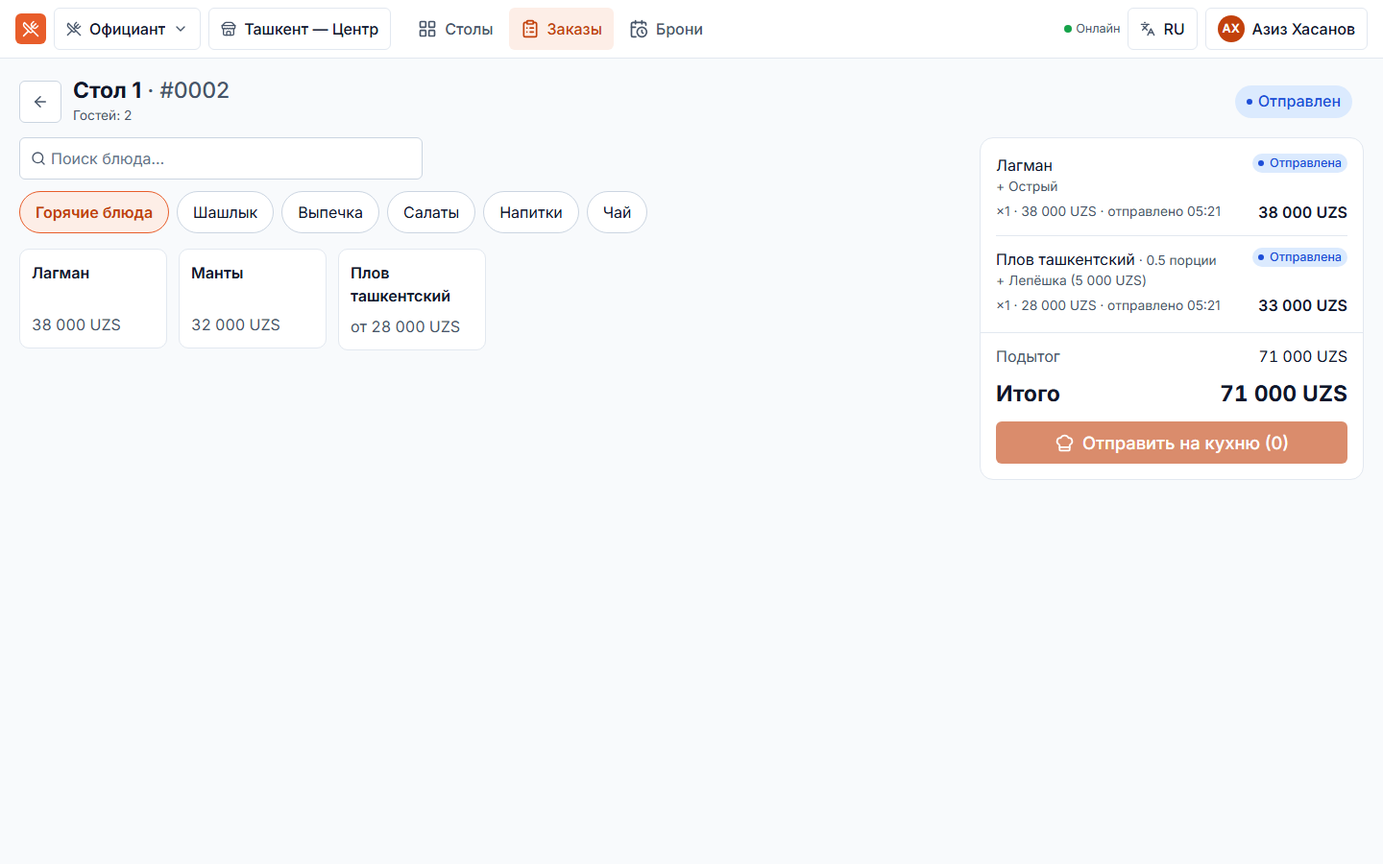
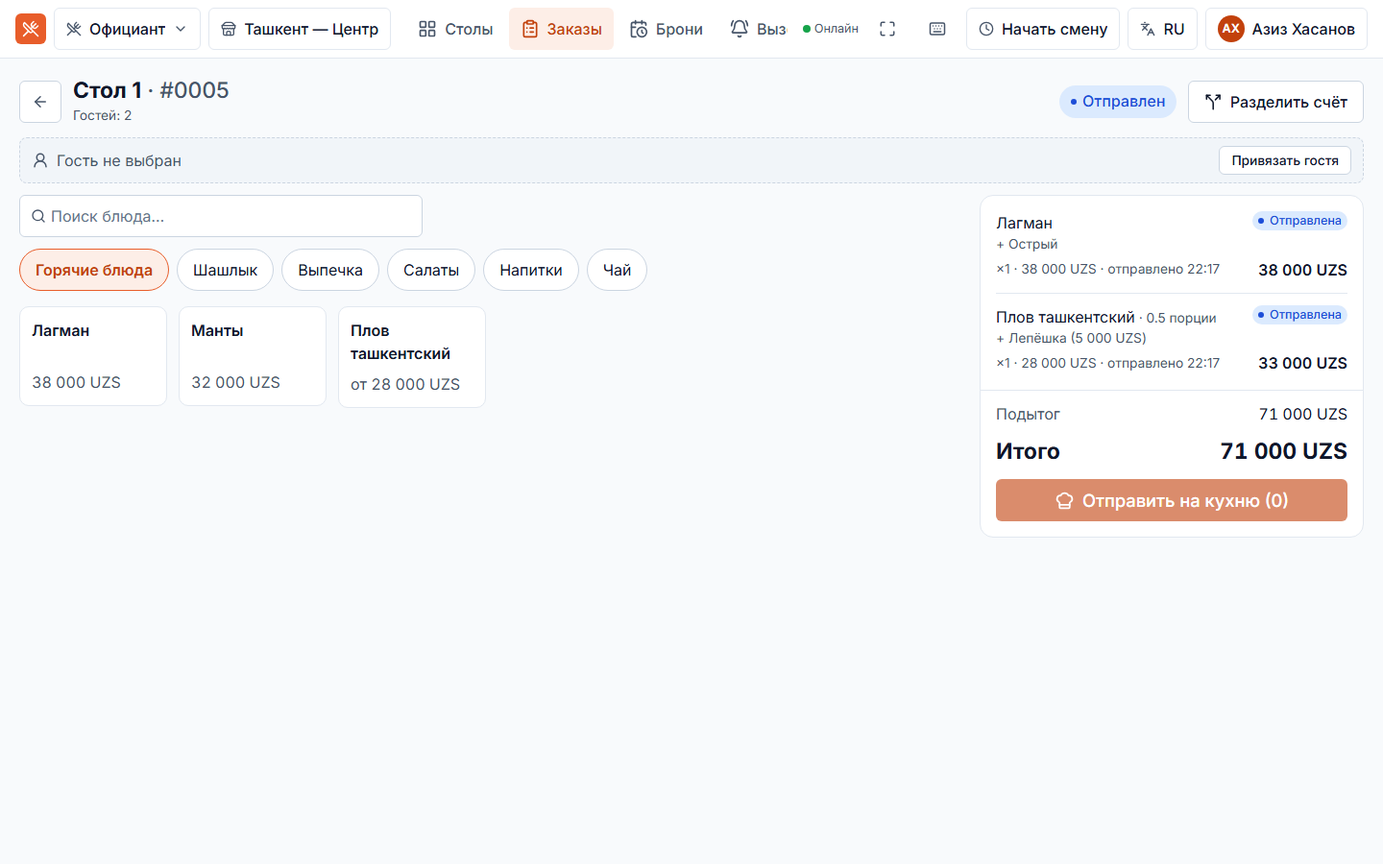
docs: v2 verification results, feature status, owner to-do, deployment notes
- E2E_RESULTS: v2 scenario (11 steps), UI smoke 50-v2 + 59-screen crawl, perf rows,
  final v2 regression (backend 252 + 201, admin 314, landing 35, E2E 29/29,
  UI smoke 32/32) and the problems found while integrating.
- README: feature status table for MVP + v2 (honest about Payme/Click/Telegram/
  Eskiz/SMTP not connected, Uzum skeleton, no fiscalization), demo logins with
  workspaces and Development demo PINs, current test counts.
- STATUS: pause block replaced with the final v2 results and next steps.
- User-Todo: section E (credentials, loyalty defaults, role rights, prod upgrade).
- DEPLOYMENT §11 + .env.example: v2 settings; HANDOFF: v2 summary.
- Screenshots refreshed, 12 v2 screenshots added.

diff --git a/User-Todo.md b/User-Todo.md
@@ -5,11 +5,11 @@
 
 ## A. Бизнес-правила (раздел 20 ТЗ)
 
-- [ ] **Q1. Типы заказов.** Допущение: `dine_in` + базовый `takeaway`. Доставка — нет.
+- [ ] **Q1. Типы заказов.** Допущение: `dine_in` + базовый `takeaway`. Доставка — нет. *(v2: доставка реализована — см. E/V10.)*
 - [ ] **Q2. Несколько филиалов в пилоте?** Допущение: архитектура multi-branch, в пилоте 1 филиал.
 - [ ] **Q3. Бронирования в MVP?** Допущение: да, базовые (с проверкой пересечений).
 - [ ] **Q4. Способы оплаты.** Допущение: `cash`, `card` (ручная отметка), `other`. Payme/Click/Uzum — не подключены.
-- [ ] **Q5. Местные платёжные провайдеры** (Payme, Click, Uzum, Humo/Uzcard-эквайринг)? Нужны договор и доступ к тестовой среде. Сейчас — `ManualPaymentProvider` с пометкой «Демо».
+- [ ] **Q5. Местные платёжные провайдеры** (Payme, Click, Uzum, Humo/Uzcard-эквайринг)? Нужны договор и доступ к тестовой среде. Сейчас — `ManualPaymentProvider` с пометкой «Демо». *(v2: адаптеры Payme/Click написаны, ждут реквизитов — см. E/V1–V3.)*
 - [ ] **Q6. Онлайн-ККМ / фискализация** (soliq.uz, виртуальная касса)? Сейчас пречек с пометкой «Не является фискальным чеком». Нужна консультация местного специалиста.
 - [ ] **Q7. Когда списывать ингредиенты?** Допущение: **при полной оплате заказа** (одно событие, идемпотентно).
 - [ ] **Q8. Отрицательные остатки.** Допущение: ручные операции не могут увести остаток в минус (настройка филиала `AllowNegativeStock=false`). Автосписание при продаже **может** увести в минус (продажа уже состоялась) — создаётся уведомление и запись аудита. Подходит?
@@ -17,7 +17,7 @@
 - [ ] **Q10. Офлайн-режим?** Допущение: нет (ТЗ исключает).
 - [ ] **Q11. RU и UZ с первого релиза?** Допущение: да, оба (узбекский — латиница). Тексты UZ сделаны машинно/черново — **нужна вычитка носителем**.
 - [ ] **Q12. Налог, сервисный сбор, скидки.** Допущение: настройки филиала `serviceChargePercent` (по умолчанию 0%) и `taxPercent` (0%, начисляется сверху). Скидка на заказ — сумма или процент, только с правом `orders.discount.apply` и причиной. Нужно уточнить: НДС уже входит в цены меню? Сервисный сбор 10–15%?
-- [ ] **Q13. Разделение счёта / частичная оплата.** Допущение: частичная оплата есть (несколько платежей разными способами), разделение счёта по позициям — после MVP.
+- [ ] **Q13. Разделение счёта / частичная оплата.** Допущение: частичная оплата есть (несколько платежей разными способами), разделение счёта по позициям — после MVP. *(v2: разделение счёта реализовано — поровну, по позициям, по суммам.)*
 - [ ] **Q14. Ожидаемая нагрузка** (пользователей, заказов в день)? Допущение: до 30 сотрудников, до 500 заказов/день на филиал.
 
 ## B. Технические решения (можно оставить как есть)
@@ -27,7 +27,7 @@
 - [ ] **T3. Хостинг backend + PostgreSQL** (раздел 11): нужно выбрать платформу (Render / Railway / Fly.io / Azure / VPS в UZ) и зарегистрировать аккаунты — это можете сделать только вы. Для реального ресторана рекомендую платный VPS/managed Postgres с бэкапами.
 - [x] **T4. Vercel** — РАЗВЁРНУТО 10.11.2026: https://respos-landing.vercel.app и https://respos-admin.vercel.app (CLI). Для автодеплоя при push установите Vercel GitHub App на репозиторий и подключите проекты (Settings → Git). После хостинга backend задайте в Vercel `VITE_API_BASE_URL`, `VITE_HUB_URL` (admin) и `VITE_API_BASE_URL` (landing) и сделайте redeploy. для `respos-admin` и `respos-landing`: нужен ваш аккаунт и подключение GitHub-репозитория. Конфиги (`vercel.json`) подготовлены.
 - [x] **T5. GitHub-репозиторий.** — https://github.com/Urgenchbayev-Alibek/respos (public). Локально создан git-репозиторий (без push). Создайте пустой репозиторий на GitHub и пришлите URL — тогда заработает CI (`.github/workflows`).
-- [ ] **T6. Email (восстановление пароля, приглашения).** Сейчас заглушка (письмо пишется в лог, в Development — ссылка показывается админу). Какой SMTP/провайдер использовать?
+- [ ] **T6. Email (восстановление пароля, приглашения).** Сейчас заглушка (письмо пишется в лог, в Development — ссылка показывается админу). Какой SMTP/провайдер использовать? *(v2: SMTP настраивается в «Интеграциях» — см. E/V7.)*
 - [ ] **T7. Название продукта и домен.** Рабочее «RestaurantOS», папка «ResPOS». Финальное название и домен?
 - [ ] **T8. Мобильное приложение / Telegram-бот.** По ТЗ в MVP не входят (адаптивный веб). Нужны позже?
 - [ ] **T9. Claude Design.** Отдельный дизайн-артефакт «RestaurantOS — Product Design» сделан в виде документов в `docs/design/`. Если хотите макеты в Claude Design — откройте его и попросите сгенерировать по `docs/design/DESIGN_BRIEF.md`.
@@ -41,7 +41,38 @@
 
 - [ ] **L1.** Блокировка пользователя глобальная: если сотрудник работает в двух организациях, блокировка в одной блокирует и в другой. Для пилота (1 организация) не важно.
 - [x] **L2.** (решено: grace-окно 15 с, ADR-0003) Одновременное обновление сессии в двух вкладках браузера может сработать как «повторное использование refresh-токена» → потребуется войти заново. Можно смягчить grace-периодом 10–30 с.
-- [ ] **L3.** Станция кухни и стоп-лист блюда — на уровне организации, а не филиала (нормально для 1 филиала, Q2).
+- [ ] **L3.** Станция кухни и стоп-лист блюда — на уровне организации, а не филиала (нормально для 1 филиала, Q2). *(v2: решено — переопределения цены, стоп-листа и станции по филиалам, F4.)*
 - [ ] **L4.** Вне Development миграции БД применяются отдельной командой до старта API (см. `docs/deployment/DEPLOYMENT.md`).
 - [x] **L5. Диск C: был заполнен (0 МБ).** РЕШЕНО 10.11.2026: очищены кэши (Gradle, npm, pip, Windows Update, старые IntelliJ, .cache, снапшоты эмуляторов) — свободно ~66 ГБ. Во время работы я очистил кэш npm (`npm cache clean --force`, 6 ГБ — это только кэш загрузок, восстанавливается сам). Освободите место на C: (Docker Desktop ~5 ГБ, Temp ~1.5 ГБ) — иначе npm/Docker/Testcontainers будут падать с ENOSPC.
 - [ ] **L6. Docker после нехватки места.** Из-за заполненного C: в Docker повредился слой базового образа `mcr.microsoft.com/dotnet/aspnet:8.0` (нулевые DLL). Я удалил этот образ и build cache (всё перекачивается автоматически) — после этого образ API собирается и запускается (`docker compose --profile full up`, проверены health/login). Если увидите `Invalid framework config.json` — повторите: `docker builder prune -af && docker rmi mcr.microsoft.com/dotnet/aspnet:8.0`.
+
+## E. v2 (10.11.2026) — что нужно от владельца
+
+Код v2 (F1–F8) слит и проверен на тестовых/демо-данных. Внешние сервисы **не подключены**: в интерфейсе они честно
+показаны как «Не подключено». Чтобы включить их, нужны ваши договоры и реквизиты (в репозиторий и в `VITE_*` их не кладём).
+
+- [ ] **V1. Payme.** Договор мерчанта и доступ в кабинет. Передать на сервер (env): `PaymentProviders__Payme__MerchantId`,
+  `PaymentProviders__Payme__Key`, для песочницы `PaymentProviders__Payme__TestMode=true`. В кабинете Payme указать URL
+  `https://<api-домен>/api/v1/payments/providers/payme/callback`. После этого провайдер включается по филиалам в «Настройки → Платёжные провайдеры».
+  Адаптер написан по публичному Merchant API и покрыт тестами на подписи/идемпотентность, но **с реальной песочницей Payme не проверялся**.
+- [ ] **V2. Click.** Договор и реквизиты: `PaymentProviders__Click__ServiceId`, `__MerchantId`, `__SecretKey` (+ `__TestMode`). URL для Prepare/Complete:
+  `https://<api-домен>/api/v1/payments/providers/click/callback`. Так же: **с реальным Click не проверялся**.
+- [ ] **V3. Uzum.** Только заготовка (всегда «Не подключено»): нужна официальная документация мерчант-API Uzum и тестовый доступ — тогда адаптер можно дописать.
+- [ ] **V4. Фискализация (онлайн-ККМ).** Не подключена (`IFiscalProvider` → `none`), пречек не является фискальным чеком. См. Q6: нужен выбор оператора и консультация.
+- [ ] **V5. Telegram-уведомления владельцу.** Создать бота у @BotFather, прислать токен и chat id (личный или группы) — вводятся в «Интеграции → Telegram-бот»
+  (хранятся зашифрованно, наружу отдаются только в виде `****1234`). Проверка — кнопка «Отправить тест».
+- [ ] **V6. SMS (Eskiz.uz).** Договор с Eskiz: email, пароль, согласованное имя отправителя и шаблоны SMS → «Интеграции → SMS». Без этого подтверждения броней по SMS не уходят.
+- [ ] **V7. Почта (SMTP).** Хост, порт, логин/пароль, адрес отправителя → «Интеграции → Почта» (для организации) и/или `Integrations__Smtp__*` на сервере
+  (приглашения и сброс пароля для всей платформы). Пока не задано — письма пишутся в лог (как в MVP, T6).
+- [ ] **V8. Программа лояльности — проверить значения по умолчанию.** Сейчас: выключена; начисление 5 % от итога оплаченного заказа; бонусами можно
+  оплатить до 30 % счёта; минимальная сумма заказа 0; срок жизни бонусов — бессрочно; 1 бонус = 1 сум. Решить: (а) эти проценты; (б) начислять ли бонусы
+  на сервисный сбор и стоимость доставки (сейчас база начисления — весь итог заказа); (в) кто может менять программу — сейчас только владелец/администратор (`settings.manage`).
+- [ ] **V9. Права ролей v2.** Официант и кассир могут создавать гостей и списывать бонусы; кассир ведёт доставку; менеджер — график, табель и PIN. Проверьте, что это подходит (см. `respos-contracts/v2/`).
+- [ ] **V10. Доставка.** Стоимость доставки задаётся одной суммой на филиал («Филиал → QR-меню и доставка»). Нужны ли зоны/расчёт по расстоянию и приём онлайн-заказов с сайта?
+- [ ] **V11. Онлайн-бронирование.** Часы приёма броней одни для всех филиалов (10:00–22:00, шаг 30 мин, стол на 120 мин) — подтвердить или прислать свои.
+  Лендинг берёт филиал из `VITE_PUBLIC_BRANCH_SLUG` (по умолчанию `demo`) — **при следующем деплое лендинга на Vercel задайте эту переменную** (старая `VITE_PUBLIC_BRANCH_ID` больше не используется).
+- [ ] **V12. Production-обновление до v2.** Перед запуском новой версии API применить миграцию `V2Features` (только добавляет таблицы/колонки, см. L4 и DEPLOYMENT.md)
+  и сохранить ключи шифрования интеграций (таблица `data_protection_keys` или `DataProtection__KeysPath`): при их потере секреты интеграций придётся ввести заново.
+- [ ] **V13. PIN-вход на общих планшетах.** Работает только на устройстве, которое подключил менеджер («Персонал → Общие устройства»). Демо-PIN (2580/3690/1470) создаются
+  **только в Development**; в рабочей системе сотрудник задаёт PIN сам в профиле или его задаёт менеджер.
+- [ ] **V14. Вычитка UZ/EN.** Тексты новых экранов на узбекском и английском сделаны машинно — нужна вычитка носителем (как Q11).

diff --git a/README.md b/README.md
@@ -5,8 +5,8 @@
 аудит. Платформенная супер-админка управляет организациями и тарифами.
 
 - Валюта по умолчанию — UZS, часовой пояс — `Asia/Tashkent`. Языки UI: русский и узбекский (латиница; тексты UZ — черновик, нужна вычитка); английский — заготовка.
-- Статус: **MVP реализован** (backend, admin-приложение, лендинг), идёт стабилизация — см. `STATUS.md` и таблицу ниже.
-  Оплата — только ручная/демо-отметка. Пречек не является фискальным чеком.
+- Статус: **MVP + расширение v2 реализованы** (backend, admin-приложение, лендинг) и проверены на демо-данных — см. `STATUS.md` и таблицу ниже.
+  Оплата — ручная отметка кассиром; Payme/Click/Telegram/SMS/SMTP написаны, но **не подключены** (нужны реквизиты). Пречек не является фискальным чеком.
 
 ## Структура репозитория
 
@@ -59,49 +59,73 @@ cd respos-landing && npm install && npm run dev
 
 Пароль у всех: `Demo123!` (`Seed:DemoPassword`). Демо-организация помечена `Organization.IsDemo` («Демо-данные» в UI).
 
-| Логин | Роль |
-|---|---|
-| `owner@demo.respos.uz` | владелец |
-| `admin@demo.respos.uz` | администратор |
-| `manager@demo.respos.uz` | менеджер |
-| `waiter@demo.respos.uz` | официант |
-| `cook@demo.respos.uz` | повар (KDS) |
-| `cashier@demo.respos.uz` | кассир |
-| `stock@demo.respos.uz` | кладовщик |
-| `accountant@demo.respos.uz` | бухгалтер |
-| `superadmin@respos.uz` | Platform Super Admin (вне Development создаётся только при заданном `Seed__PlatformAdminPassword`) |
+| Логин | Роль | Рабочее место после входа | Демо-PIN (общий планшет) |
+|---|---|---|---|
+| `owner@demo.respos.uz` | владелец | Админ-панель `/admin` (все филиалы) | — (владельцу PIN запрещён) |
+| `admin@demo.respos.uz` | администратор | Админ-панель `/admin` (все филиалы) | — (запрещён) |
+| `manager@demo.respos.uz` | менеджер | Админ-панель `/admin` (оба демо-филиала) | не задан |
+| `waiter@demo.respos.uz` | официант | Официант `/waiter` | `2580` |
+| `cook@demo.respos.uz` | повар | Кухня (KDS) `/kitchen` | `1470` |
+| `cashier@demo.respos.uz` | кассир | Касса `/cashier` | `3690` |
+| `stock@demo.respos.uz` | кладовщик | Склад `/stock` (оба демо-филиала) | не задан |
+| `accountant@demo.respos.uz` | бухгалтер | Админ-панель `/admin` (только чтение отчётов, платежей, аудита) | не задан |
+| `superadmin@respos.uz` | Platform Super Admin | Платформа `/platform` (вне Development создаётся только при заданном `Seed__PlatformAdminPassword`) | — |
+
+**Вход по PIN:** менеджер открывает «Персонал → Общие устройства → Сделать это устройство общим» — браузер становится общим планшетом
+и показывает экран `/device`, где сотрудник выбирает себя и вводит PIN. Демо-PIN создаются только в Development (`DemoPinSeeder`).
+Второй демо-филиал «Ташкент — Чиланзар» (свои цены на 2 блюда, остатки ниже минимума) — для проверки меню по филиалам, перемещений и предложений закупок.
+Публичные страницы демо-филиала: QR-меню `http://localhost:5174/menu/demo`, онлайн-бронь `http://localhost:5174/booking`.
 
 Демо-данные вне Development не создаются, даже если `Seed:DemoData=true`.
 
-## Статус функций MVP
+## Статус функций (MVP + v2)
+
+Легенда: ✅ реализовано и проверено тестами/E2E на демо-данных · 🟡 частично · 🔌 код готов, но внешний сервис **не подключён**
+(нужны ваши реквизиты, см. `User-Todo.md` раздел E) · ❌ не реализовано.
 
 | Модуль | Статус | Комментарий |
 |---|---|---|
-| Вход, refresh-cookie, сброс пароля, приглашения | ✅ реализовано | email — заглушка: письмо пишется в лог, ссылка-приглашение показывается админу (T6) |
-| Пользователи, роли, права (RBAC), филиалы, настройки | ✅ реализовано | лимиты тарифа (филиалы, пользователи) |
-| Зал, столы, зоны | ✅ реализовано | |
-| Бронирования | 🟡 частично | CRUD, пересечения, seat/complete/no-show; `/reservations/availability` и `GET /reservations/{id}` не реализованы; статус стола `reserved` не ставится автоматически |
-| Меню (категории, блюда, варианты, модификаторы, расписание, фото) | ✅ реализовано | станция и стоп-лист — на уровне организации (L3) |
-| Заказы (dine-in, takeaway), скидки, перенос | ✅ реализовано | доставки нет (Q1); разделения счёта по позициям нет (Q13) |
-| Кухня (KDS) + realtime | ✅ реализовано | кухонных принтеров нет (Q9) |
-| Платежи, частичная оплата, возвраты, кассовые смены | 🟡 частично | только `ManualPaymentProvider` («Демо»); **Payme/Click/Uzum не подключены** (Q5) |
-| Фискализация / онлайн-ККМ | ❌ не реализовано | пречек «Не является фискальным чеком» (Q6) |
-| Склад, рецептуры, списание при оплате, инвентаризация | ✅ реализовано | продажа может увести остаток в минус (Q8) |
-| Поставщики и закупки | ✅ реализовано | |
-| Отчёты, дашборд, экспорт | ✅ реализовано | экспорт только CSV |
-| Уведомления, аудит | ✅ реализовано | in-app + SignalR; SMS/Telegram нет |
-| Платформа (организации, тарифы, feature flags, заявки, break-glass) | ✅ реализовано | биллинга/онлайн-оплаты подписки нет |
-| Лендинг + заявка на демо | ✅ реализовано | юридические страницы — черновик |
-| Офлайн-режим | ❌ не реализовано | вне MVP (Q10) |
-| Локализация | 🟡 частично | RU полный; UZ — черновой (Q11); EN — заготовка |
-| Production-деплой | ❌ не выполнен | хостинг не выбран (T3), Vercel не подключён (T4) |
+| Вход, refresh-cookie, сброс пароля, приглашения | ✅ | письма: SMTP организации → SMTP платформы → запись в лог (пока SMTP не задан — как в MVP) |
+| Пользователи, роли, права (RBAC), филиалы, настройки | ✅ | лимиты тарифа (филиалы, пользователи); права v2 в каталоге и редакторе ролей |
+| Зал, столы, зоны | ✅ | QR-коды столов (лист A4 для печати) |
+| Бронирования | ✅ | CRUD, пересечения, seat/complete/no-show, `/reservations/availability`; отдельного `GET /reservations/{id}` нет; статус стола `reserved` не ставится автоматически |
+| Онлайн-бронирование с лендинга (v2/F7) | ✅ | `/booking` → заявка `pending` по slug филиала; лимит запросов, honeypot; часы приёма общие для всех филиалов |
+| Меню (категории, блюда, варианты, модификаторы, расписание, фото) | ✅ | |
+| Меню по филиалам (v2/F4) | ✅ | цена, стоп-лист и станция кухни на филиал; действует в POS, заказах, QR-меню и фудкосте |
+| Заказы (в зале, навынос), скидки, перенос | ✅ | |
+| Разделение счёта и чаевые (v2/F2) | ✅ | поровну / по позициям / по суммам; чаевые не входят в выручку, видны в смене и отчётах |
+| Доставка (v2/F3) | ✅ | доска доставки, курьеры, статусы, стоимость доставки на филиал; приёма онлайн-заказов с сайта нет |
+| QR-меню для гостей и «позвать официанта» (v2/F3) | ✅ | публичная страница лендинга `/menu/{slug}`; вызов приходит официантам в реальном времени |
+| Гости (CRM) и лояльность (v2/F1) | ✅ | карточка гостя, сегменты, бонусы (начисление/списание/возврат); программа по умолчанию выключена |
+| Кухня (KDS) + realtime | ✅ | кухонных принтеров нет (Q9); печать тикета через браузер (80 мм) |
+| Платежи (ручная отметка), частичная оплата, возвраты, кассовые смены | ✅ | наличные/карта отмечаются кассиром вручную («Демо») |
+| Онлайн-оплата Payme, Click (v2/F2) | 🔌 не подключено | адаптеры и webhook-и написаны по публичным API и покрыты тестами, **с реальными Payme/Click не проверялись**; нужны реквизиты мерчанта |
+| Онлайн-оплата Uzum (v2/F2) | ❌ заготовка | адаптер-скелет, всегда «Не подключено» (нет официальной документации) |
+| Фискализация / онлайн-ККМ | ❌ не подключена | пречек «Не является фискальным чеком» (Q6) |
+| Склад, рецептуры, списание при оплате, инвентаризация | ✅ | продажа может увести остаток в минус (Q8) |
+| Перемещения между филиалами, предложения закупок (v2/F4) | ✅ | |
+| Поставщики и закупки | ✅ | |
+| Отчёты, дашборд | ✅ | |
+| Аналитика и экспорт (v2/F5) | ✅ | ABC, фудкост, официанты, тепловая карта, скидки/отмены; CSV и XLSX; «PDF» — печатная HTML-страница (сохранение в PDF через браузер) |
+| Персонал: учёт времени, график, табель (v2/F6) | ✅ | |
+| Вход по PIN на общих планшетах (v2/F6) | ✅ | только на устройстве, подключённом менеджером; сессия ограничена филиалом устройства |
+| Уведомления, аудит | ✅ | in-app + SignalR |
+| Telegram-уведомления владельцу (v2/F7) | 🔌 не подключено | нужен токен бота и chat id |
+| SMS-подтверждения броней, Eskiz.uz (v2/F7) | 🔌 не подключено | нужен договор и доступ Eskiz; с реальным Eskiz не проверялось |
+| Почта через SMTP (v2/F7) | 🔌 не подключено | нужны параметры SMTP; до этого письма пишутся в лог |
+| PWA, тёмная тема, печать 80 мм, горячие клавиши (v2/F8) | ✅ | service worker кэширует только статику (API не кэшируется, офлайн-работы с данными нет) |
+| Платформа (организации, тарифы, feature flags, заявки, break-glass, ошибки интеграций) | ✅ | биллинга/онлайн-оплаты подписки нет |
+| Лендинг + заявка на демо | ✅ | юридические страницы — черновик |
+| Офлайн-режим | ❌ | вне объёма (Q10) |
+| Локализация | 🟡 | RU полный; UZ и EN — машинный перевод, нужна вычитка (Q11) |
+| Production-деплой v2 | ❌ не выполнен | фронтенды MVP на Vercel (T4) — **v2 туда не выкладывался**; хостинг backend не выбран (T3) |
 
 ## Проверки и тесты
 
 ```bash
-cd respos-backend && dotnet build && dotnet test      # 150 unit + 98 integration; интеграционным нужен Docker (Testcontainers)
-cd respos-admin   && npm run lint && npm run typecheck && npm run test && npm run build   # ~164 теста (Vitest)
-cd respos-landing && npm run lint && npm run typecheck && npm run test && npm run build   # 27 тестов
+cd respos-backend && dotnet build && dotnet test      # 252 unit + 201 integration; интеграционным нужен Docker (Testcontainers)
+cd respos-admin   && npm run lint && npm run typecheck && npm run test && npm run build   # 314 тестов (Vitest)
+cd respos-landing && npm run lint && npm run typecheck && npm run test && npm run build   # 35 тестов
 node scripts/check-file-length.mjs                     # правило: файл не длиннее 500 строк
 ```
 

diff --git a/docs/testing/E2E_RESULTS.md b/docs/testing/E2E_RESULTS.md
@@ -1,7 +1,9 @@
 # E2E smoke results (spec §16 scenario, §6.1 targets)
 
-Script: `scripts/e2e/e2e-smoke.mjs` (Node 24, built-in `fetch`, `@microsoft/signalr` 8.0.7 over WebSockets).
-It runs against a real API process and the Development demo seed — no mocks.
+Script: `scripts/e2e/e2e-smoke.mjs` (Node 24, built-in `fetch`, `@microsoft/signalr` 8.0.7 over WebSockets); v2 steps live in
+`steps-v2-guests.mjs`, `steps-v2-branches.mjs`, `steps-v2-staff.mjs`. It runs against a real API process and the Development
+demo seed (demo org, second branch, demo PINs) — no mocks. External providers are not called: Payme/Click/Telegram/Eskiz/SMTP
+are not configured, so the run checks only their «not connected» behaviour.
 
 ```bash
 docker compose -f infra/docker/docker-compose.yml up -d postgres
@@ -36,6 +38,22 @@ than ~4 times per minute.
 | + | Tenant isolation | platform admin creates a 2nd org; its owner: demo order GET/cancel/pay → 404, demo `X-Branch-Id` → 403 `tenant.branch_forbidden`, no demo menu/orders visible |
 | + | Platform / break-glass | platform admin without break-glass cannot read tenant orders (403); break-glass token: `/auth/me` 200 with the org, order read 200, write 403 |
 
+## v2 scenario (F1–F7, appended to the same run; all steps ✔ on a freshly reset DB, 2026-11-10)
+
+| # | Step | Checks |
+|---|---|---|
+| v2.1 | Guest + loyalty earn | admin enables the program (10 % earn, 50 % max); cashier creates a guest (`90 xxx-xx-xx` → `+99890…`); waiter attaches it; `expectedEarn`; cash payment → balance + `floor(total × 10 %)`; `earn` row in the ledger |
+| v2.2 | Redeem → split → tip | next order: redeem ≤ `maxRedeemable` → `loyaltyDiscountAmount`, total = subtotal − points; split equally into 2 (Σ bills = total); cancel redemption while split → 409 `order.split_active`; bill 1 cash, bill 2 card + 2 000 tip; order `paid`, `paidAmount` excludes the tip; balance = before − redeemed + earned |
+| v2.3 | Delivery | branch fee; courier (phone normalized); `POST /delivery/orders` → `DeliveryUpdated` realtime; total = food + fee; `accepted` → kitchen ticket → cook start/ready → delivery auto `ready`; `on_the_way` without courier → 422 `delivery.courier_required`; courier → `on_the_way` → `delivered` (terminal); cash payment + 3 000 tip → `paid` |
+| v2.4 | QR menu + call waiter | anonymous `GET /public/menu/demo` (`isDemo`, categories), `ETag` → 304; `POST …/call-waiter` → 202 → `WaiterCalled` at the waiter's SignalR client → listed in `/waiter-calls` → acknowledge |
+| v2.5 | Branch price override | 2nd demo branch: POS price ≠ main branch; override matrix `effectivePrice`; order line snapshot = branch price; order invisible from the main branch (404); **public QR menu of that branch shows the same price** |
+| v2.6 | Stock transfer | draft → `send` (source balance −1) → visible as incoming at the 2nd branch → `receive` with `Idempotency-Key` (replay → `Idempotent-Replayed`, balance +1 once) → `transfer_in` movement |
+| v2.7 | Purchase suggestions | 2nd branch (stock below minimum) → suggestions grouped by default supplier → apply → one draft PO per supplier (cancelled afterwards so the run is repeatable) |
+| v2.8 | Time clock | waiter clock-in (double → 409 `time_entry.already_open`) / clock-out; manager timesheet row; CSV export header |
+| v2.9 | Shared device + PIN | manager registers a device (httpOnly `device_token`, token not in the body); lock-screen staff list; wrong PIN → 401; demo waiter PIN `2580` → session with only the device branch; other branch → 403; revoke → `device.invalid` |
+| v2.10 | Analytics | ABC (top item class A), food cost (recipes), waiter report (`tipsAmount` = 2 000 for the e2e waiter), heatmap (168 cells), tips report (≥ 5 000), `abc` XLSX export (content type + zip signature) |
+| v2.11 | Integrations + online booking | 3 integrations listed; Telegram token saved disabled → returned only as `****abcd`; test send → 422 `integration.not_configured`; `GET /public/branches/demo/availability` → free slot → `POST …/reservations` → `pending`, visible to the admin |
+
 ## Performance (§6.1)
 
 Environment: one laptop — Intel i5-1135G7 (4C/8T), 24 GB RAM, Windows 11 Pro; API = .NET 8 **Debug** build
@@ -53,9 +71,11 @@ the DB commit and the push).
 | 4 (final code, fresh DB, cold API, right after the test suite) | 76 | 59 ms | 565 ms | 1241 ms (`POST /auth/login`) | 0 | 720 ms | 72 ms |
 | 5 (final code, warm) | 75 | 28 ms | 284 ms | 531 ms (`POST /platform/organizations`) | 0 | 60 ms | 35 ms |
 | 6 (final regression 2026-11-10 05:18, fresh DB, cold API) | 76 | 40 ms | 364 ms | 986 ms (`POST /auth/login`) | 0 | 420 ms | 52 ms |
+| 7 (**v2**, 29 steps, 2026-11-10 21:45, fresh DB, cold API; admin + landing dev servers on the same laptop) | 150 | 90 ms | 494 ms | 1681 ms (`POST /auth/login`) | 0 | 754 ms | 109 ms |
+| 8 (**v2**, 29 steps, final code, 2026-11-10 22:15, fresh DB, cold API, right after the backend test suite) | 150 | 63 ms | 436 ms | 1395 ms (`POST /auth/login`) | 0 | 582 ms | 89 ms |
 
-Targets: typical API request ≤ 2 s — **met** (max 1.24 s cold, ≤ 0.53 s warm); KDS event delivery ≤ 2 s — **met**
-(≤ 0.72 s cold, ≤ 0.07 s warm). Slowest calls are password hashing (`/auth/login`, `POST /users`,
+Targets: typical API request ≤ 2 s — **met** (max 1.68 s cold in the v2 runs, ≤ 0.53 s warm); KDS event delivery ≤ 2 s — **met**
+(≤ 0.75 s cold, ≤ 0.07 s warm). The v2 runs measure 150 calls of the `Client` helper; raw `fetch` calls (public endpoints, device cookie flow, file exports) are not in the percentile. Slowest calls are password hashing (`/auth/login`, `POST /users`,
 `POST /platform/organizations`) — by design. Page-load (≤ 3 s) is a frontend measurement and not covered here.
 Not measured: behaviour under concurrent load, over a real network, or with a Release build — repeat on the staging host.
 
@@ -84,12 +104,13 @@ npm run typecheck
 | Spec | Covers |
 |---|---|
 | `01-auth` | UI login for all 8 demo users → right workspace; reload restores the session from the httpOnly refresh cookie cross-port (5173 → 5080, CORS with credentials); wrong password; deep link → login; cook → admin = 403 page |
-| `02-crawl` | every screen of every workspace (42): no console errors, no unexpected 4xx/5xx or failed requests, no leaked i18n keys, no horizontal scroll, no screen stuck in loading |
+| `02-crawl` | every screen of every workspace (**59**, incl. all v2 screens: guests, loyalty settings, delivery board, table QR sheet, staff ×5, integrations ×2, waiter calls, cashier delivery, platform integration errors): no console errors, no unexpected 4xx/5xx or failed requests, no leaked i18n keys, no horizontal scroll, no screen stuck in loading |
 | `03-multitab` | two tabs of one session reloading concurrently stay signed in |
 | `10-admin` | dashboard numbers, users list + create, menu edit, floor plan, reservation create, orders drawer, inventory receipt movement, reports chart + tabs, audit log, notifications bell, settings save, RU → UZ → RU |
 | `20-order-flow` | waiter opens table → plov (variant + modifier) + lagman (modifier) → send; cook (2nd context) gets the ticket via SignalR without reload → start → ready; waiter gets the toast → serve all; cashier (opens shift if needed) pays the rest → paid; table free again; stockkeeper sees the sale consumption |
 | `30-platform-landing` | platform organizations + system page; landing home, demo form → 202 → success state; landing on a phone |
 | `40-mobile-logout` | waiter workspace at 390×844 (floor, orders, reservations, new order): no horizontal scroll; logout → reload stays on login |
+| `50-v2` | guests list → guest card (link, ledger); cashier: guest loyalty panel + split equally into 2 bills (order prepared through the API, cleaned up afterwards); delivery board, table QR sheet, integrations, staff timesheet, the five analytics tabs; dark theme toggle kept after reload; shared device: manager registers the browser → lock screen `/device` → waiter enters PIN `2580` → waiter workspace (device revoked afterwards); landing on a phone: `/menu/demo?table=2` + «Позвать официанта» (202), `/booking` loads slots by slug |
 
 Sessions are reused between specs through `.auth/<role>.json` (git-ignored); the rotated refresh cookie is written back
 after each test, so one run logs every user in once (login limit 5/min per IP+e-mail). The demo form is limited to
@@ -121,3 +142,52 @@ Floor plan from the fresh seed: per-area views place tiles by `posX/posY` grid c
 one row), "All areas" flows in list order (cells overlap across areas, by design); no horizontal scroll at 1440 px
 (admin, waiter) and 390 px (waiter, 2-column flow). No regressions found — no code changes. Screenshots in
 `docs/design/assets/screenshots/` refreshed by this run.
+
+## v2 regression — 2026-11-10 21:45–22:30 (fresh DB)
+
+Merged v2 (F1–F8) + migration `V2Features`. `docker compose … down -v` → `up -d postgres` (empty DB: `InitialCreate` + `V2Features`
+applied at API start, 83 tables), API `dotnet run` (Development: demo org, second branch, demo PINs), admin :5173 and landing :5174
+dev servers, `.auth/` cleared. The migration was also applied on top of a v1 database that held data written by the v1 API
+(orders, payments, stock) — existing rows got `tip_amount`/`delivery_fee`/`loyalty_discount_amount` = 0, `is_split` = false, and the
+18 v1 steps passed against the upgraded DB.
+
+| Suite | Result |
+|---|---|
+| `scripts/e2e/e2e-smoke.mjs` | **29/29 steps ✔** (18 v1 + 11 v2) — 150 REST calls, p50 63 ms, p95 436 ms, max 1395 ms, 0 > 2 s; KDS 582 ms, OrderItemReady 89 ms |
+| `scripts/ui-smoke` (Playwright) | **32/32 passed** (5.4 min; 26 existing + 6 v2 tests); 59 screens crawled, no console errors / failed requests / leaked keys / horizontal scroll |
+| Backend `dotnet build` / `dotnet test` | 0 warnings, 0 errors; unit 252/252, integration 201/201 |
+| respos-admin lint + typecheck + test + build | ✔; 56 files, 314/314 tests |
+| respos-landing lint + typecheck + test + build | ✔; 6 files, 35/35 tests |
+| `scripts/check-file-length.mjs` | ✔ 1437 files ≤ 500 lines |
+
+Not exercised (no credentials, by design): real Payme / Click callbacks from the providers' sandboxes, Telegram, Eskiz SMS and SMTP
+delivery — only signature/idempotency logic (integration tests with fake keys) and the «not connected» paths were run. Uzum is a
+disabled skeleton; fiscalization is not connected. Not measured: concurrent load, a real network, a Release build.
+
+### Problems found while integrating v2 (all fixed, each with a test)
+
+Cross-feature rules (modules were developed in parallel):
+- **Points on a split order**: redeeming or returning loyalty points changed the order total while the bills kept their fixed
+  amounts → now 409 `order.split_active`, `maxRedeemable` = 0 while split (`CrossFeatureTests`, domain test, e2e v2.2).
+- **Loyalty program settings** could be changed by waiters and cashiers (they hold `customers.manage` to create guests) →
+  `PUT /loyalty/settings` needs `settings.manage` (`CustomersTests`, admin page read-only test).
+- **Public QR menu ignored branch overrides** (F3 × F4): guests of a branch saw the organization price and stop-listed dishes →
+  the menu uses the branch-effective values like the POS (`PublicMenuTests`, e2e v2.5).
+- **Food cost ignored branch prices** (F5 × F4): margin of a branch was computed from the base price (`AnalyticsTests`).
+- **Delivery fee missing in totals** (F3 × F8/F2 UI): cashier summary, order totals and the pre-check had no fee line, so the rows
+  did not add up to the total; delivery orders were labelled «С собой» (`PaymentPanel.test`).
+- Covered by new regression tests without code changes: delivery + service charge + points + tip (cash drawer, tips report),
+  branch price override as the base for the points limit and earn, PIN session branch scope on v2 endpoints.
+
+Merge follow-ups: public booking by branch slug (id routes removed); one phone normalization instead of three; one QR generator
+instead of two; admin sidebar item «Интеграции»; stale permission test after the cashier role change.
+
+Found by the browser run: v2 permissions were shown as raw codes in the role editor (no labels in ru/uz/en); the workspace top bar
+overflowed a 390 px phone after v2 added three buttons; the guest card was reachable only by mouse (row click, no link); the QR
+menu's bottom bar pushed «Попросить счёт» off a phone screen; admin route tests were flaky under parallel load (1 s wait budget).
+
+Known noise / left as is: EF warning "First without OrderBy" on `GET /dashboard` (v1 aggregate over a constant group, one row);
+refused `JoinBranch` and wrong PIN are logged at Warning (expected). **Open (v1 behaviour, not fixed):** when a page is reloaded
+while a hub call is in flight (seen once: KDS reload during `JoinKitchenStation`), SignalR logs the cancelled invocation at `ERR`
+with a stack trace (`OperationCanceledException`) — harmless, but it should be downgraded like refused hub calls already are. The demo dish description in `landing-qr-menu.png` is text
+written by the `10-admin` spec ("Обновлено UI smoke …").

diff --git a/STATUS.md b/STATUS.md
@@ -19,14 +19,31 @@
 - Totals at this point: backend 150 unit + 114 integration; admin 180; landing 27; all builds/lints green; 1028 files ≤ 500 lines.
 - ~05:45 — Final regression on a fresh DB: E2E 18/18, UI smoke 26/26, backend 150+114, admin 180, landing 27, file-length OK. MVP code complete. See `HANDOFF.md`, `User-Todo.md`.
 
-## v2 expansion — PAUSED (2026-11-10, by owner's request)
-Done & merged on `main`: F1 guests/loyalty, F2 split bill/tips/Payme+Click adapters, F3 delivery/QR menu/waiter calls,
-F4 branch overrides/stock transfers/purchase suggestions, F5 analytics/XLSX/print-PDF, F6 time clock/schedule/PIN login,
-F7 Telegram/SMS/SMTP/online booking, F8 PWA/dark theme/80mm printing/shortcuts. Migration `V2Features` added;
-cross-feature fixes, slug-based public booking, shared phone normalizer, e2e v2 steps + Development demo PINs committed.
+## v2 expansion — integrated and verified (2026-11-10, ~22:30)
 
-**Resume from here:**
-1. `git stash pop` — restores WIP: `scripts/ui-smoke/tests/50-v2.spec.ts` (v2 Playwright screens), guests list a11y link, roles i18n.
-2. Run full suites (backend build/test, admin+landing lint/typecheck/test/build, check-file-length) — NOT yet re-run after the last v2 commits.
-3. Fresh DB → run `scripts/e2e` (18 v1 + v2 steps) and `scripts/ui-smoke`; fix findings; update `docs/testing/E2E_RESULTS.md`, README feature table, User-Todo (Payme/Click/Telegram/Eskiz/SMTP credentials).
-4. `git push`, redeploy Vercel (respos-admin, respos-landing), send demo logins/PINs to the owner.
+Merged on `main`: F1 guests/loyalty, F2 split bill/tips/Payme+Click adapters, F3 delivery/QR menu/waiter calls,
+F4 branch menu overrides/stock transfers/purchase suggestions, F5 analytics/XLSX/print-PDF, F6 time clock/schedule/PIN login,
+F7 Telegram/SMS/SMTP/online booking, F8 PWA/dark theme/80 mm printing/shortcuts.
+
+- **Migration `V2Features`** (one combined, additive): 24 new tables + 9 columns; new non-null columns default to 0/false.
+  Applied on an empty DB and on top of a v1 DB with real v1 data (v1 E2E passed on the upgraded DB). No model drift.
+- **Final results on a freshly reset DB** (details: `docs/testing/E2E_RESULTS.md`):
+  backend build 0 warnings, **252 unit + 201 integration**; admin lint/typecheck/build ✔, **314 tests**; landing ✔, **35 tests**;
+  1437 files ≤ 500 lines; **E2E 29/29** (18 v1 + 11 v2 steps, 150 REST calls, 0 over 2 s); **UI smoke 32/32** (59 screens crawled, 19 screenshots refreshed in `docs/design/assets/screenshots/`).
+- **Bugs fixed during integration** (each with a test): loyalty points could be redeemed/returned on a split order (bills no longer
+  matched the total); waiters/cashiers could rewrite the loyalty program; public QR menu and food-cost report ignored per-branch
+  prices and stop-lists; delivery fee line missing in cashier summary/pre-check (rows did not add up); v2 permissions shown as raw
+  codes in the role editor; workspace top bar and the QR-menu bottom bar overflowed a 390 px phone; guest card not reachable by
+  keyboard; flaky admin route tests; stale role-permission test.
+- **Merge follow-ups done**: public online booking by branch slug (`/public/branches/{slug}/…`, landing `VITE_PUBLIC_BRANCH_SLUG`,
+  default `demo`); one phone normalization (was three); one QR generator (was two); sidebar item «Интеграции»; backend README error
+  codes; contract CHANGELOG v2.0; DEPLOYMENT §11 (v2 settings); Development demo PINs (waiter 2580, cashier 3690, cook 1470).
+- **Not connected / not verified with real services** (need the owner's credentials — `User-Todo.md` section E): Payme and Click
+  (adapters + webhooks written and unit/integration-tested with fake keys only), Telegram, Eskiz SMS, SMTP. Uzum is a disabled
+  skeleton. Fiscalization is not connected. UZ/EN texts of the new screens are machine-translated.
+- **Known open issue** (v1 behaviour): a page reload during a SignalR hub call logs the cancelled invocation at `ERR` (harmless noise).
+- **Not done**: `git push` and Vercel redeploy of v2 (local `main` is ahead of `origin/main`; the deployed sites still show the MVP);
+  load testing; a Release-build / staging run.
+
+**Next steps for the owner:** review `User-Todo.md` section E (credentials, loyalty defaults, role rights) → push `main` →
+set `VITE_PUBLIC_BRANCH_SLUG` / `VITE_LANDING_URL` in Vercel and redeploy → choose backend hosting (T3) and apply `V2Features` there.

diff --git a/docs/deployment/DEPLOYMENT.md b/docs/deployment/DEPLOYMENT.md
@@ -253,3 +253,28 @@ pg_restore -c -h HOST -U USER -d respos_restore respos_YYYY-MM-DD.dump
 - [ ] Health checks подключены, алерт при падении
 - [ ] E2E-сценарий (`scripts/e2e`, [E2E_RESULTS](../testing/E2E_RESULTS.md)) пройден на staging — с демо-организацией (вне Development демо-seed не создаётся, данные готовятся вручную)
 - [ ] Метки «Демо» / «Не является фискальным чеком» видны; юридическая консультация (User-Todo C)
+
+## 11. Настройки v2 (внешние сервисы выключены, пока не заданы реквизиты)
+
+Обновление существующей БД: миграция `V2Features` только добавляет таблицы и колонки (новые обязательные колонки получают 0/`false`),
+проверена на чистой БД и поверх БД v1 с данными. Процедура — как в §5 (бэкап → скрипт/bundle → новая версия API).
+При первом старте v2 филиалы без публичного адреса получают `slug` автоматически (`BranchSlugSeeder`).
+
+| Переменная | Где | Назначение |
+|---|---|---|
+| `PaymentProviders__Payme__MerchantId`, `__Key`, `__TestMode` | backend | Payme; пусто → «Не подключено». Webhook: `POST /api/v1/payments/providers/payme/callback` |
+| `PaymentProviders__Click__ServiceId`, `__MerchantId`, `__SecretKey`, `__TestMode` | backend | Click; webhook: `POST /api/v1/payments/providers/click/callback` |
+| `Integrations__Smtp__Host`, `__Port`, `__UseSsl`, `__Username`, `__Password`, `__FromEmail`, `__FromName` | backend | SMTP платформы (приглашения, сброс пароля); пусто → письма пишутся в лог |
+| `DataProtection__KeysPath` | backend | каталог (том) для ключей шифрования секретов интеграций; не задано → таблица `data_protection_keys` |
+| `Integrations__BackgroundEnabled` | backend | `true` по умолчанию: фоновая отправка Telegram/SMS/e-mail и ежедневная сводка |
+| `VITE_LANDING_URL` | `respos-admin` (Vercel) | адрес лендинга для QR-кодов столов: `${VITE_LANDING_URL}/menu/{slug}?table=N` |
+| `VITE_PUBLIC_BRANCH_SLUG` | `respos-landing` (Vercel) | slug филиала для `/booking` (по умолчанию `demo`; пустое значение → «бронирование не подключено») |
+
+- Telegram, Eskiz SMS и SMTP организации настраиваются в приложении («Интеграции», право `integrations.manage`); секреты хранятся
+  зашифрованно (ASP.NET Data Protection) и клиенту возвращаются только в виде маски. **Ключи нужно сохранять вместе с БД** (бэкап
+  `data_protection_keys` или тома `KeysPath`): при их потере секреты придётся ввести заново.
+- Webhook-и платёжных провайдеров анонимные (подпись проверяется в адаптере) — URL `api.`-домена должен быть доступен провайдеру по HTTPS.
+- Домен лендинга должен быть в `Frontend__AllowedOrigins` (QR-меню, вызов официанта и онлайн-бронь идут с него на API).
+- Service worker админ-приложения кэширует только статику; после деплоя новая версия подхватывается при следующем открытии.
+- Чек-лист v2: миграция `V2Features` применена · ключи Data Protection в бэкапе · `VITE_LANDING_URL` и `VITE_PUBLIC_BRANCH_SLUG` заданы ·
+  провайдеры оплаты проверены в их песочницах до включения на филиале · демо-PIN отсутствуют (создаются только в Development).

diff --git a/HANDOFF.md b/HANDOFF.md
@@ -48,3 +48,14 @@ cd respos-landing && npm install && npm run dev                   # :5174
 Правила для агентов — `CLAUDE.md` (лимит 500 строк/файл, decimal для денег, tenant/branch scope, права на бэке,
 SignalR только уведомляет). Новый модуль бэка — `respos-backend/README.md`, новая страница — `respos-admin/README.md`.
 Любое изменение API — сначала `respos-contracts/` + `CHANGELOG.md`.
+
+## v2 (10.11.2026) — что добавилось
+Гости и лояльность, разделение счёта и чаевые, доставка, QR-меню и вызов официанта, меню по филиалам, перемещения и
+предложения закупок, аналитика и XLSX, учёт времени/график/PIN-вход, интеграции (Telegram/SMS/SMTP) и онлайн-бронь, PWA и
+тёмная тема. Контракты модулей — `respos-contracts/v2/F1…F7`, итог слияния — `respos-contracts/CHANGELOG.md` (v2.0).
+- Одна миграция `V2Features` (только добавляет таблицы/колонки). Настройки и чек-лист v2 — `docs/deployment/DEPLOYMENT.md` §11.
+- **Внешние сервисы не подключены** (Payme, Click, Telegram, Eskiz SMS, SMTP — ждут реквизитов; Uzum — заготовка; фискализации нет).
+  Что нужно от владельца — `User-Todo.md`, раздел E.
+- Демо (только Development): второй филиал «Ташкент — Чиланзар»; PIN на общем планшете — официант `2580`, кассир `3690`, повар `1470`;
+  QR-меню `http://localhost:5174/menu/demo`, онлайн-бронь `http://localhost:5174/booking`.
+- Результаты проверок v2 — `STATUS.md` и `docs/testing/E2E_RESULTS.md`. v2 **не запушен и не развёрнут** (Vercel показывает MVP).
